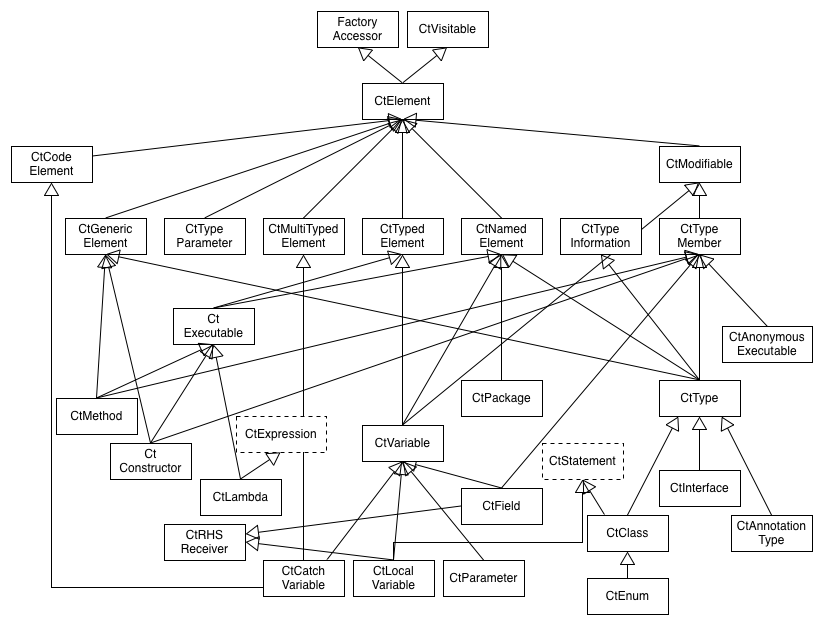
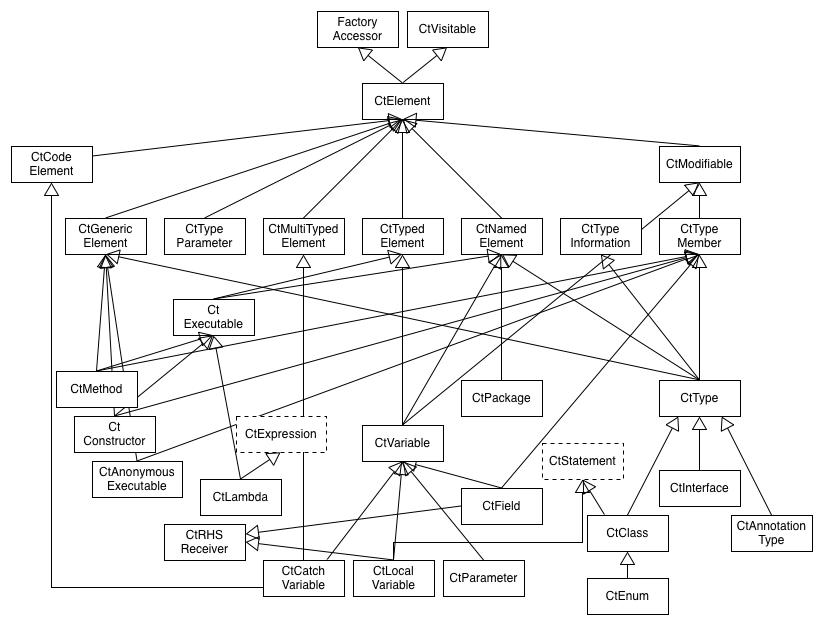
feat(api): Put CtAnonymousExecutable under CtExecutable.
Closes #426

diff --git a/src/main/java/spoon/support/reflect/declaration/CtAnonymousExecutableImpl.java b/src/main/java/spoon/support/reflect/declaration/CtAnonymousExecutableImpl.java
@@ -17,20 +17,23 @@
 
 package spoon.support.reflect.declaration;
 
-import spoon.reflect.code.CtBlock;
 import spoon.reflect.declaration.CtAnonymousExecutable;
 import spoon.reflect.declaration.CtClass;
+import spoon.reflect.declaration.CtExecutable;
 import spoon.reflect.declaration.CtModifiable;
+import spoon.reflect.declaration.CtNamedElement;
+import spoon.reflect.declaration.CtParameter;
+import spoon.reflect.declaration.CtTypedElement;
 import spoon.reflect.declaration.ModifierKind;
+import spoon.reflect.reference.CtTypeReference;
 import spoon.reflect.visitor.CtVisitor;
 
 import java.util.EnumSet;
+import java.util.List;
 import java.util.Set;
 
-public class CtAnonymousExecutableImpl extends CtElementImpl implements CtAnonymousExecutable {
+public class CtAnonymousExecutableImpl extends CtExecutableImpl<Void> implements CtAnonymousExecutable {
 	private static final long serialVersionUID = 1L;
-
-	CtBlock<?> body;
 
 	Set<ModifierKind> modifiers = emptySet();
 
@@ -51,11 +54,6 @@ public class CtAnonymousExecutableImpl extends CtElementImpl implements CtAnonym
 	@Override
 	public boolean removeModifier(ModifierKind modifier) {
 		return !modifiers.isEmpty() && modifiers.remove(modifier);
-	}
-
-	@Override
-	public CtBlock<?> getBody() {
-		return body;
 	}
 
 	@Override
@@ -88,13 +86,6 @@ public class CtAnonymousExecutableImpl extends CtElementImpl implements CtAnonym
 	}
 
 	@Override
-	public <T extends CtAnonymousExecutable> T setBody(CtBlock<?> block) {
-		block.setParent(this);
-		body = block;
-		return (T) this;
-	}
-
-	@Override
 	public <T extends CtModifiable> T setModifiers(Set<ModifierKind> modifiers) {
 		this.modifiers = modifiers;
 		return (T) this;
@@ -112,4 +103,63 @@ public class CtAnonymousExecutableImpl extends CtElementImpl implements CtAnonym
 		return (T) this;
 	}
 
+	@Override
+	public List<CtParameter<?>> getParameters() {
+		throw new UnsupportedOperationException("You can't have parameters in a anonymous executable");
+	}
+
+	@Override
+	public CtExecutable setParameters(List list) {
+		throw new UnsupportedOperationException("You can't have parameters in a anonymous executable");
+	}
+
+	@Override
+	public CtExecutable addParameter(CtParameter parameter) {
+		throw new UnsupportedOperationException("You can't have parameters in a anonymous executable");
+	}
+
+	@Override
+	public boolean removeParameter(CtParameter parameter) {
+		throw new UnsupportedOperationException("You can't have parameters in a anonymous executable");
+	}
+
+	@Override
+	public Set<CtTypeReference<? extends Throwable>> getThrownTypes() {
+		throw new UnsupportedOperationException("You can't have throw types in a anonymous executable");
+	}
+
+	@Override
+	public CtExecutable setThrownTypes(Set thrownTypes) {
+		throw new UnsupportedOperationException("You can't have throw types in a anonymous executable");
+	}
+
+	@Override
+	public CtExecutable addThrownType(CtTypeReference throwType) {
+		throw new UnsupportedOperationException("You can't have throw types in a anonymous executable");
+	}
+
+	@Override
+	public boolean removeThrownType(CtTypeReference throwType) {
+		throw new UnsupportedOperationException("You can't have throw types in a anonymous executable");
+	}
+
+	@Override
+	public String getSimpleName() {
+		throw new UnsupportedOperationException("You can't have a name in a anonymous executable");
+	}
+
+	@Override
+	public <T extends CtNamedElement> T setSimpleName(String simpleName) {
+		throw new UnsupportedOperationException("You can't have a name in a anonymous executable");
+	}
+
+	@Override
+	public CtTypeReference<Void> getType() {
+		throw new UnsupportedOperationException("An anonymous executable isn't typed");
+	}
+
+	@Override
+	public <C extends CtTypedElement> C setType(CtTypeReference<Void> type) {
+		throw new UnsupportedOperationException("An anonymous executable isn't typed");
+	}
 }

diff --git a/src/test/java/spoon/test/parent/ParentContractTest.java b/src/test/java/spoon/test/parent/ParentContractTest.java
@@ -10,6 +10,7 @@ import spoon.reflect.code.CtConstructorCall;
 import spoon.reflect.code.CtInvocation;
 import spoon.reflect.code.CtNewClass;
 import spoon.reflect.declaration.CtAnnotationType;
+import spoon.reflect.declaration.CtAnonymousExecutable;
 import spoon.reflect.declaration.CtConstructor;
 import spoon.reflect.declaration.CtElement;
 import spoon.reflect.declaration.CtParameter;
@@ -113,6 +114,9 @@ public class ParentContractTest<T extends CtVisitable> {
 			if (o instanceof CtInvocation && "setType".equals(setter.getName())) continue;
 			if (o instanceof CtConstructorCall && "setType".equals(setter.getName())) continue;
 			if (o instanceof CtNewClass && "setType".equals(setter.getName())) continue;
+			if (o instanceof CtAnonymousExecutable && ("addParameter".equals(setter.getName()) || "setParameters".equals(setter.getName()))) continue;
+			if (o instanceof CtAnonymousExecutable && ("addThrownType".equals(setter.getName()) || "setThrownTypes".equals(setter.getName()))) continue;
+			if (o instanceof CtAnonymousExecutable && "setType".equals(setter.getName())) continue;
 
 			CtElement mockedArgument = (CtElement) mock(setter.getParameters()[0].getType(),  Mockito.withSettings().extraInterfaces(Comparable.class));
 			try {

diff --git a/src/main/java/spoon/reflect/factory/ExecutableFactory.java b/src/main/java/spoon/reflect/factory/ExecutableFactory.java
@@ -17,10 +17,6 @@
 
 package spoon.reflect.factory;
 
-import java.util.ArrayList;
-import java.util.List;
-import java.util.StringTokenizer;
-
 import spoon.reflect.code.CtBlock;
 import spoon.reflect.declaration.CtAnonymousExecutable;
 import spoon.reflect.declaration.CtClass;
@@ -31,6 +27,10 @@ import spoon.reflect.declaration.CtParameter;
 import spoon.reflect.reference.CtExecutableReference;
 import spoon.reflect.reference.CtParameterReference;
 import spoon.reflect.reference.CtTypeReference;
+
+import java.util.ArrayList;
+import java.util.List;
+import java.util.StringTokenizer;
 
 import static java.util.Arrays.asList;
 import static spoon.reflect.ModelElementContainerDefaultCapacities.PARAMETERS_CONTAINER_DEFAULT_CAPACITY;
@@ -53,7 +53,7 @@ public class ExecutableFactory extends SubFactory {
 	/**
 	 * Creates an anonymous executable (initializer block) in a target class).
 	 */
-	public CtAnonymousExecutable createAnonymous(CtClass<?> target, CtBlock<?> body) {
+	public CtAnonymousExecutable createAnonymous(CtClass<?> target, CtBlock<Void> body) {
 		CtAnonymousExecutable a = factory.Core().createAnonymousExecutable();
 		target.addAnonymousExecutable(a);
 		a.setBody(body);

diff --git a/src/main/java/spoon/reflect/declaration/CtAnonymousExecutable.java b/src/main/java/spoon/reflect/declaration/CtAnonymousExecutable.java
@@ -17,27 +17,10 @@
 
 package spoon.reflect.declaration;
 
-import spoon.reflect.code.CtBlock;
-
 /**
  * This element defines an anonymous executable block declaration in a class.
  *
  * @see spoon.reflect.declaration.CtClass
  */
-public interface CtAnonymousExecutable extends CtTypeMember {
-
-	/**
-	 * Gets the executable block.
-	 *
-	 * @return the representation of this executable
-	 */
-	CtBlock<?> getBody();
-
-	/**
-	 * Sets the executable block.
-	 *
-	 * @param block
-	 * 		the representation of this executable
-	 */
-	<T extends CtAnonymousExecutable> T setBody(CtBlock<?> block);
+public interface CtAnonymousExecutable extends CtExecutable<Void>, CtTypeMember {
 }

diff --git a/src/main/java/spoon/reflect/visitor/CtInheritanceScanner.java b/src/main/java/spoon/reflect/visitor/CtInheritanceScanner.java
@@ -359,11 +359,13 @@ public abstract class CtInheritanceScanner implements CtVisitor {
 	}
 
 	public void visitCtAnonymousExecutable(CtAnonymousExecutable e) {
-		scanCtElement(e);
-		scanCtModifiable(e);
+		scanCtExecutable(e);
+		scanCtNamedElement(e);
+		scanCtTypedElement(e);
 		scanCtTypeMember(e);
+		scanCtModifiable(e);
+		scanCtElement(e);
 		scanCtVisitable(e);
-
 	}
 
 	public <T, E extends CtExpression<?>> void visitCtArrayAccess(

diff --git a/src/main/java/spoon/reflect/visitor/filter/NameFilter.java b/src/main/java/spoon/reflect/visitor/filter/NameFilter.java
@@ -22,7 +22,11 @@ public class NameFilter<T extends CtNamedElement> implements Filter<T> {
 	}
 
 	public boolean matches(T element) {
-		return name.equals(element.getSimpleName());
+		try {
+			return name.equals(element.getSimpleName());
+		} catch (UnsupportedOperationException e) {
+			return false;
+		}
 	}
 
 	@SuppressWarnings("unchecked")

diff --git a/src/main/java/spoon/support/compiler/jdt/ParentExiter.java b/src/main/java/spoon/support/compiler/jdt/ParentExiter.java
@@ -172,7 +172,7 @@ public class ParentExiter extends CtInheritanceScanner {
 	@Override
 	public void visitCtAnonymousExecutable(CtAnonymousExecutable e) {
 		if (child instanceof CtBlock) {
-			e.setBody((CtBlock<?>) child);
+			e.setBody((CtBlock) child);
 			return;
 		}
 		super.visitCtAnonymousExecutable(e);
